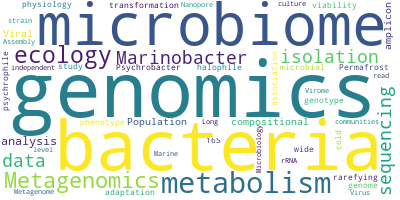
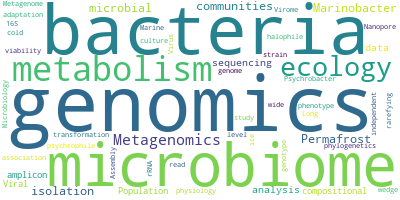
Katayamaetal2007

diff --git a/README.md b/README.md
@@ -17,6 +17,8 @@ Notes (author, year, journal in file header) on readings.  Top of each note docu
  
 * [Shietal1996 - Characterization of viable bacteria from siberian permafrost by 16S rDNA sequencing](https://github.com/zscooper/ReadingList/tree/master/papers/Cryosphere/Permafrost/Shietal1996.md) 
      * This study isolated and identified viable bacteria from permafrost using 16S sequencing. 
+* [Katayamaetal2007 - Phylogenetic Analysis of Bacteria Preserved in a Permafrost Ice Wedge for 25,000 Years](https://github.com/zscooper/ReadingList/tree/master/papers/Cryosphere/Permafrost/Katayamaetal2007.md) 
+     * Phylogenetic analysis of microbes preserved in an ice wedge for 25,000 years 
 
 ## Bacterial-genera 
  
@@ -42,7 +44,7 @@ Notes (author, year, journal in file header) on readings.  Top of each note docu
      * This paper refutes the common practice of rarefying compositional amplicon data and suggests a more appropriate method for comparing amplicon data across samples. 
 * [Glooretal2017 - Microbiome Datasets Are Compositional: And This Is Not Optional](https://github.com/zscooper/ReadingList/tree/master/papers/Metagenomics/Methods/Glooretal2017.md) 
      * This paper reviews the issues and approaches to dealing with compositional data. 
-* [Blank_note-sheet - Microbial GWAS coming of age](https://github.com/zscooper/ReadingList/tree/master/papers/Metagenomics/Methods/Blank_note-sheet.md) 
+* [Falush2016 - Microbial GWAS coming of age](https://github.com/zscooper/ReadingList/tree/master/papers/Metagenomics/Methods/Falush2016.md) 
      * This is a Nature News and Reviews article on GWAS for bacteria, an uncommon practice. 
 * [TsilimigrasandFodor2016 - Compositional data analysis of the microbiome: fundamentals, tools, and challenges](https://github.com/zscooper/ReadingList/tree/master/papers/Metagenomics/Methods/TsilimigrasandFodor2016.md) 
      * This is a minireview of compositional data analyses. 

diff --git a/papers/Cryosphere/Permafrost/Katayamaetal2007.md b/papers/Cryosphere/Permafrost/Katayamaetal2007.md
@@ -1,0 +1,25 @@
+08/12/19
+## Authors:
+Katayama T, Tanaka M, Moriizumi J, Nakamura T, Brouchkov A, Douglas TA, Fukuda M, Tomita F, and K Asano
+## Title:
+Phylogenetic Analysis of Bacteria Preserved in a Permafrost Ice Wedge for 25,000 Years
+## Keywords:
+Permafrost, ice wedge, phylogenetics, microbial communities
+## Geographic Coverage
+Fox Permafrost Tunnel, Alaska
+## Field Dates:
+2007
+## Significance:
+Phylogenetic analysis of microbes preserved in an ice wedge for 25,000 years
+
+## Notes:
+This study identified isolates of bacteria from an ice wedge in the Fox permafrost tunnel that was 25,000 years old.
+
+Isolates from the ice wedge were mainly Gammaproteobacteria and many grew at –5˚C.
+
+This study captures phylogenetic diversity of *viable* bacteria from an ice wedge
+
+Concluding hypotheses
+* Viable bacteria can be found in ice wedges ~25,000 years old.
+* Diversity of isolates from the ice wedge was low.
+* Bacteria may be employing survival strategies involving *in situ* activity in the ice wedge.
